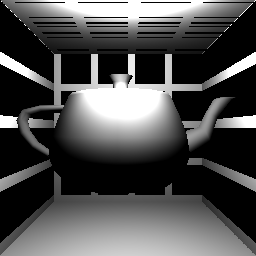
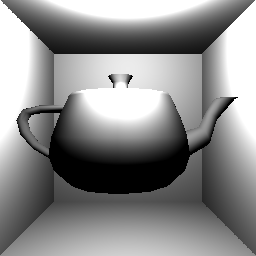
kariert

diff --git a/rt/src/rt/testscenes/TeapotShadowTest.java b/rt/src/rt/testscenes/TeapotShadowTest.java
@@ -56,23 +56,23 @@ public class TeapotShadowTest extends Scene {
 				
 		// Box
 		Plane plane = new Plane(new Vector3f(0.f, 1.f, 0.f), 1.f);
-		plane.material = new ProceduraleDiffuse(1);
+		plane.material = new ProceduraleDiffuse(3);
 		objects.add(plane);		
 		
 		plane = new Plane(new Vector3f(0.f, 0.f, 1.f), 1.f);
-		plane.material = new ProceduraleDiffuse(0);
+		plane.material = new ProceduraleDiffuse(3);
 		objects.add(plane);
 		
 		plane = new Plane(new Vector3f(-1.f, 0.f, 0.f), 1.f);
-		plane.material = new ProceduraleDiffuse(2);
+		plane.material = new ProceduraleDiffuse(3);
 		objects.add(plane);
 		
 		plane = new Plane(new Vector3f(1.f, 0.f, 0.f), 1.f);
-		plane.material = new ProceduraleDiffuse(2);
+		plane.material = new ProceduraleDiffuse(3);
 		objects.add(plane);
 		
 		plane = new Plane(new Vector3f(0.f, -1.f, 0.f), 1.f);
-		plane.material = new ProceduraleDiffuse(1);
+		plane.material = new ProceduraleDiffuse(3);
 		objects.add(plane);
 		
 		// Add objects

diff --git a/rt/src/rt/materials/ProceduraleDiffuse.java b/rt/src/rt/materials/ProceduraleDiffuse.java
@@ -71,7 +71,7 @@ int i;
 			case 0: resta=(int)restx; restb=(int)resty; break;
 			case 1: resta=(int)restx; restb=(int)restz; break;
 			case 2: resta=(int)resty; restb=(int)restz; break;
-			default: resta=(int)restx; restb=(int)resty;
+			default: return new Spectrum(1,1,1);
 		
 		}
 		
